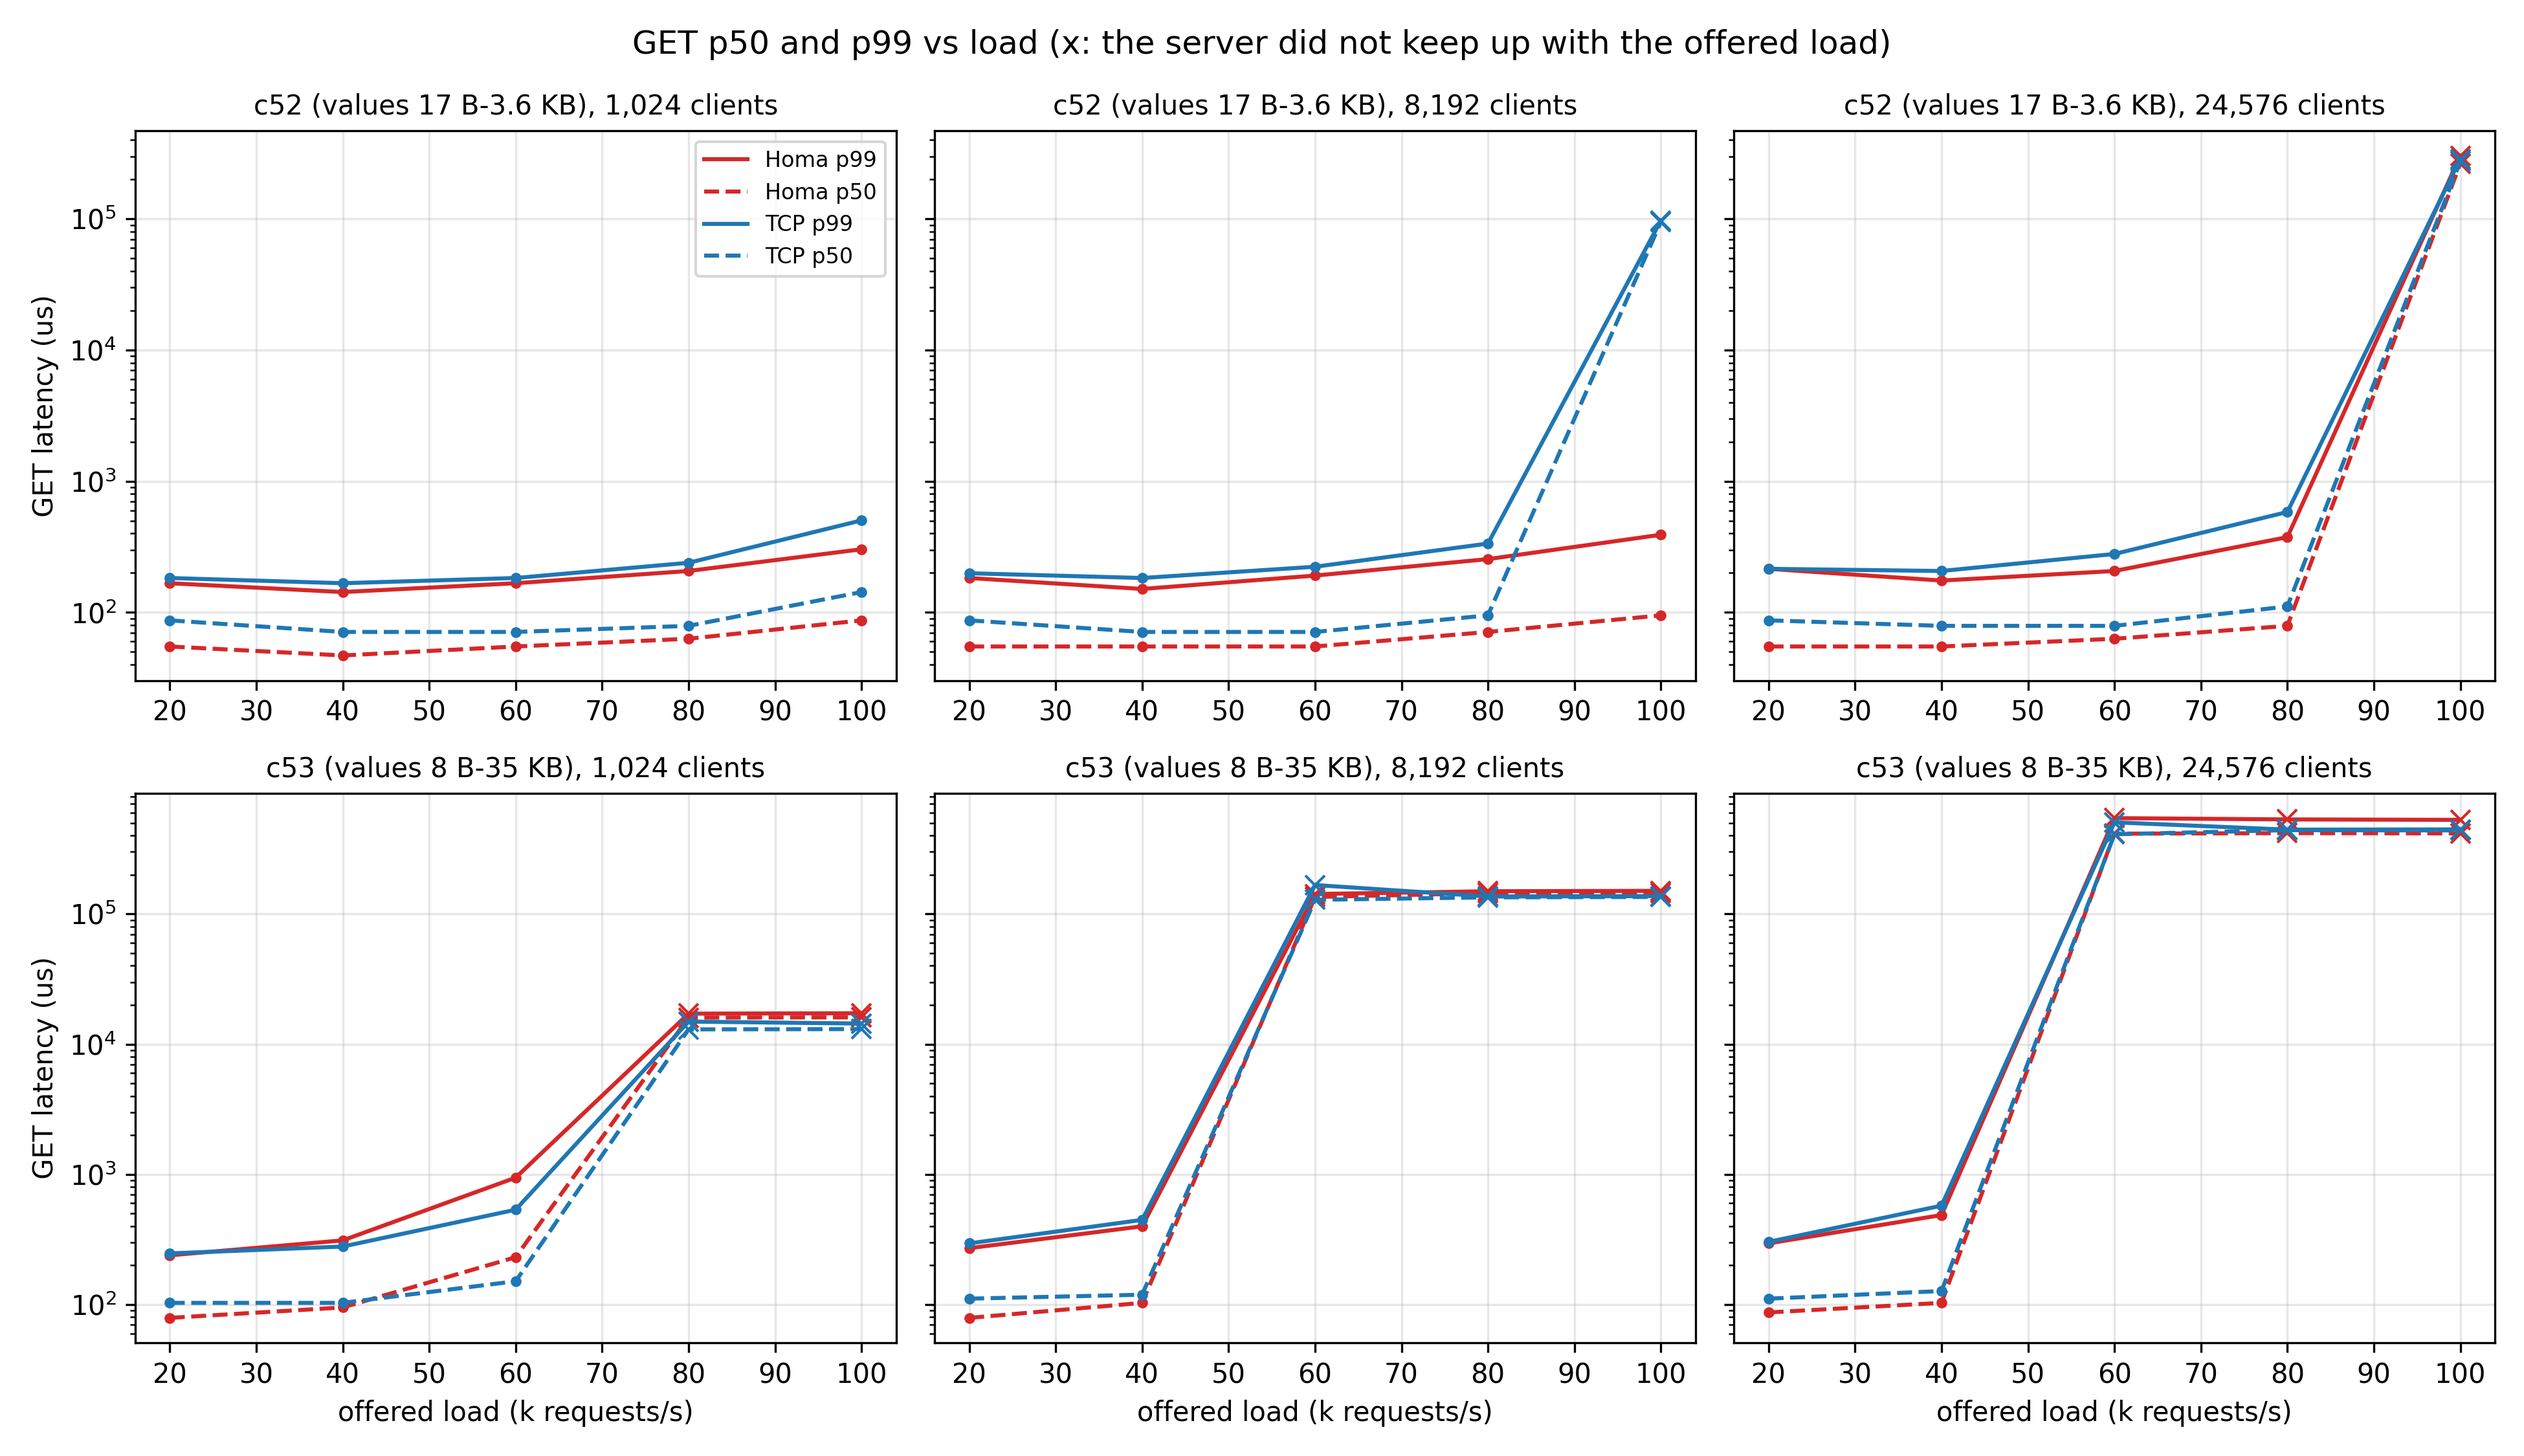
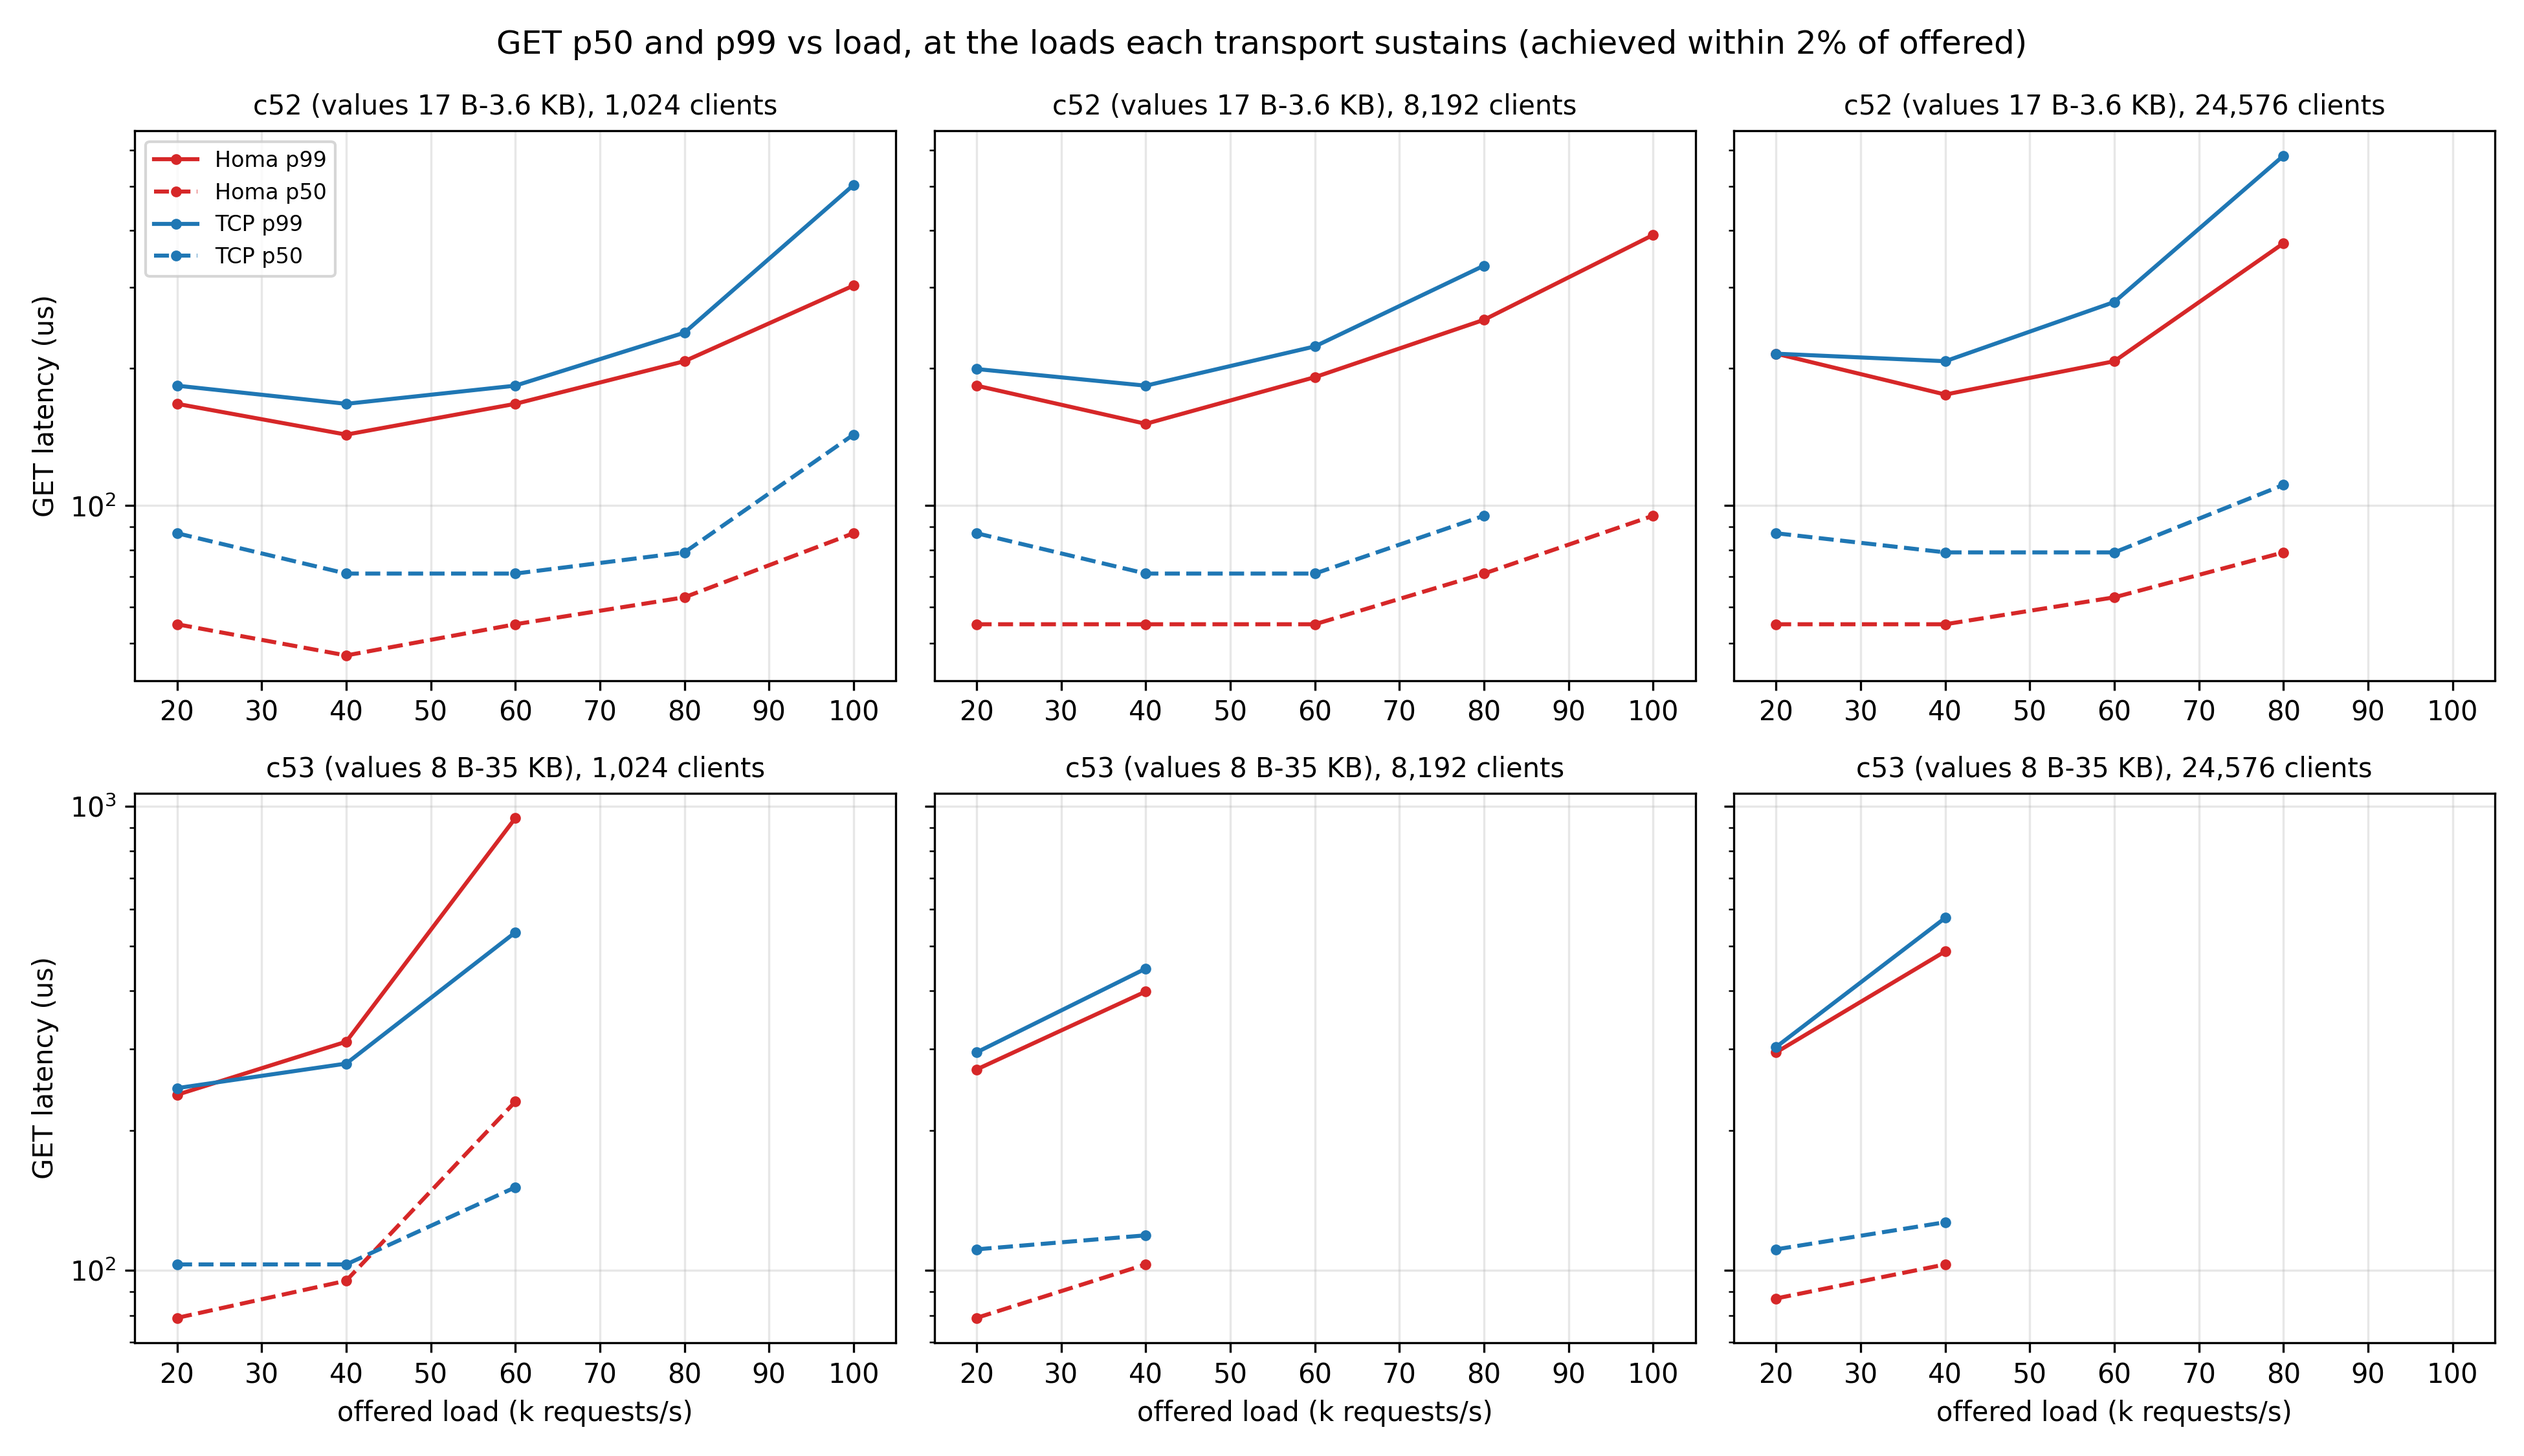
Report latency only at loads the server sustains

diff --git a/plot.py b/plot.py
@@ -26,15 +26,15 @@ for i, w in enumerate(WL):
         ax = axs[i][j]
         for tr, (name, col) in TR.items():
             for c, ls, lab in (("get_p99_us", "-", "p99"), ("get_p50_us", "--", "p50")):
-                pts = [(L / 1000, D[(w, n, L, tr)]) for L in LOADS]
-                ax.plot([x for x, _ in pts], [m[c] for _, m in pts], ls, color=col, label=f"{name} {lab}")
-                for x, m in pts:
-                    ax.plot(x, m[c], "o" if ok(m) else "x", color=col, ms=3 if ok(m) else 7)
-        ax.set_yscale("log"); ax.grid(alpha=.3); ax.set_title(f"{WL[w]}, {n:,} clients", fontsize=10)
+                pts = [(L / 1000, D[(w, n, L, tr)]) for L in LOADS if ok(D[(w, n, L, tr)])]
+                ax.plot([x for x, _ in pts], [m[c] for _, m in pts], ls, marker="o", ms=3, color=col,
+                        label=f"{name} {lab}")
+        ax.set_xlim(15, 105); ax.set_yscale("log"); ax.grid(alpha=.3)
+        ax.set_title(f"{WL[w]}, {n:,} clients", fontsize=10)
         if i == 1: ax.set_xlabel("offered load (k requests/s)")
         if j == 0: ax.set_ylabel("GET latency (us)")
 axs[0][0].legend(fontsize=8)
-fig.suptitle("GET p50 and p99 vs load (x: the server did not keep up with the offered load)")
+fig.suptitle("GET p50 and p99 vs load, at the loads each transport sustains (achieved within 2% of offered)")
 fig.tight_layout(); fig.savefig("latency.png", dpi=300)
 
 # CPU per request at 20k and 40k requests/s (sustained everywhere)
@@ -69,13 +69,13 @@ fig.tight_layout(); fig.savefig("throughput.png", dpi=300)
 
 # README tables
 for w in WL:
-    print(f"\n**{w}** (* = the server did not keep up; achieved k requests/s in brackets)\n")
+    print(f"\n**{w}** (latency only where the achieved load is within 2% of the offered)\n")
     print("| clients | load | Homa p50 / p99 (us) | TCP p50 / p99 (us) | node0 CPU per request, Homa / TCP (us) |")
     print("|---:|---:|---:|---:|---:|")
     for n in NS:
         for L in LOADS:
             h, t = D[(w, n, L, "homa")], D[(w, n, L, "tcp")]
-            f = lambda m: f"{m['get_p50_us']:.0f} / {m['get_p99_us']:.0f}" + ("" if ok(m) else f" * ({m['ops'] / 1000:.0f}k)")
+            f = lambda m: f"{m['get_p50_us']:.0f} / {m['get_p99_us']:.0f}" if ok(m) else f"saturated at {m['ops'] / 1000:.0f}k"
             c = f"{cpu(h):.1f} / {cpu(t):.1f}" if ok(h) and ok(t) else "-"
             print(f"| {n:,} | {L // 1000}k | {f(h)} | {f(t)} | {c} |")
 rows = [r for f in ("homa", "tcp") for r in csv.DictReader(open(f"results/fleet-{f}.csv")) if int(r["offered"]) <= 40000]

diff --git a/README.md b/README.md
@@ -82,9 +82,10 @@ preloaded, so every GET hits.
   and Homa does more work on it per message (one `recvmsg` and one `sendmsg` per message, a
   multi-KB message copied in one call) although it does less on the node as a whole.
 - **Offered load reached**: every run at 20k and 40k requests/s achieved its offered load within
-  0.4%; points where the server fell more than 2% short are marked * (x in the figure).
+  0.4%. Where a transport fell more than 2% short of the offered load, its latency only measures
+  the backlog, so the figure and the tables give no latency there, only the load it achieved.
 
-**c52** (* = the server did not keep up; achieved k requests/s in brackets)
+**c52** (latency only where the achieved load is within 2% of the offered)
 
 | clients | load | Homa p50 / p99 (us) | TCP p50 / p99 (us) | node0 CPU per request, Homa / TCP (us) |
 |---:|---:|---:|---:|---:|
@@ -97,32 +98,32 @@ preloaded, so every GET hits.
 | 8,192 | 40k | 55 / 151 | 71 / 183 | 19.4 / 35.1 |
 | 8,192 | 60k | 55 / 191 | 71 / 223 | 16.9 / 28.4 |
 | 8,192 | 80k | 71 / 255 | 95 / 335 | 15.0 / 24.0 |
-| 8,192 | 100k | 95 / 391 | 94719 / 97279 * (86k) | - |
+| 8,192 | 100k | 95 / 391 | saturated at 86k | - |
 | 24,576 | 20k | 55 / 215 | 87 / 215 | 26.5 / 46.0 |
 | 24,576 | 40k | 55 / 175 | 79 / 207 | 19.9 / 35.3 |
 | 24,576 | 60k | 63 / 207 | 79 / 279 | 17.1 / 28.5 |
 | 24,576 | 80k | 79 / 375 | 111 / 583 | 15.2 / 24.1 |
-| 24,576 | 100k | 264191 / 303103 * (88k) | 274431 / 286719 * (87k) | - |
+| 24,576 | 100k | saturated at 88k | saturated at 87k | - |
 
-**c53** (* = the server did not keep up; achieved k requests/s in brackets)
+**c53** (latency only where the achieved load is within 2% of the offered)
 
 | clients | load | Homa p50 / p99 (us) | TCP p50 / p99 (us) | node0 CPU per request, Homa / TCP (us) |
 |---:|---:|---:|---:|---:|
 | 1,024 | 20k | 79 / 239 | 103 / 247 | 33.5 / 47.8 |
 | 1,024 | 40k | 95 / 311 | 103 / 279 | 25.6 / 35.2 |
 | 1,024 | 60k | 231 / 943 | 151 / 535 | 21.2 / 28.0 |
-| 1,024 | 80k | 15999 / 17151 * (64k) | 12991 / 14911 * (78k) | - |
-| 1,024 | 100k | 16063 / 17279 * (64k) | 13055 / 14399 * (78k) | - |
+| 1,024 | 80k | saturated at 64k | saturated at 78k | - |
+| 1,024 | 100k | saturated at 64k | saturated at 78k | - |
 | 8,192 | 20k | 79 / 271 | 111 / 295 | 34.1 / 58.9 |
 | 8,192 | 40k | 103 / 399 | 119 / 447 | 26.1 / 43.6 |
-| 8,192 | 60k | 135167 / 142335 * (57k) | 128511 / 166911 * (58k) | - |
-| 8,192 | 80k | 144383 / 149503 * (56k) | 134143 / 136191 * (61k) | - |
-| 8,192 | 100k | 144383 / 150527 * (57k) | 135167 / 137215 * (60k) | - |
+| 8,192 | 60k | saturated at 57k | saturated at 58k | - |
+| 8,192 | 80k | saturated at 56k | saturated at 61k | - |
+| 8,192 | 100k | saturated at 57k | saturated at 60k | - |
 | 24,576 | 20k | 87 / 295 | 111 / 303 | 34.7 / 59.1 |
 | 24,576 | 40k | 103 / 487 | 127 / 575 | 26.3 / 45.3 |
-| 24,576 | 60k | 413695 / 544767 * (52k) | 409599 / 505855 * (54k) | - |
-| 24,576 | 80k | 417791 / 532479 * (52k) | 440319 / 444415 * (55k) | - |
-| 24,576 | 100k | 415743 / 528383 * (51k) | 438271 / 446463 * (55k) | - |
+| 24,576 | 60k | saturated at 52k | saturated at 54k | - |
+| 24,576 | 80k | saturated at 52k | saturated at 55k | - |
+| 24,576 | 100k | saturated at 51k | saturated at 55k | - |
 
 Runs at 20k and 40k offered: 96; largest deviation of achieved from offered: 0.4%
 
